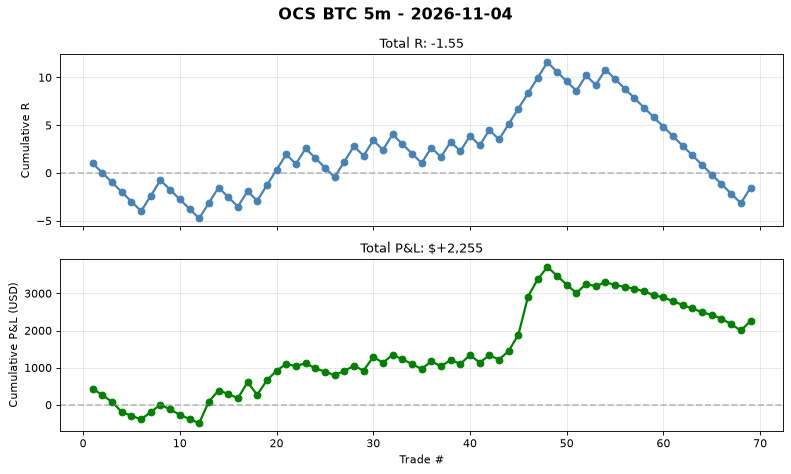
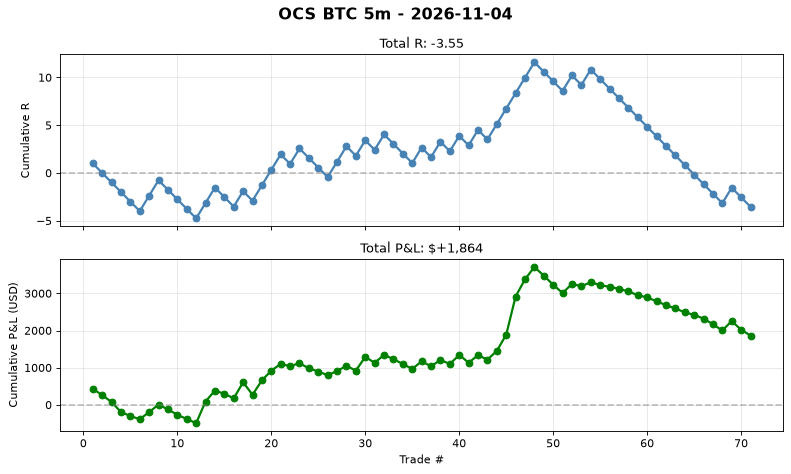
auto(ocs-btc): signal log 2026-11-03T22:55 trades=71

diff --git a/automation/reports/ocs_btc_5m/daily/2026-11-04.md b/automation/reports/ocs_btc_5m/daily/2026-11-04.md
@@ -2,4 +2,4 @@
 
 **No trades today.**
 
-Cumulative stats: 69 trades | WR 37.7% | avg R -0.022
+Cumulative stats: 71 trades | WR 36.6% | avg R -0.05
